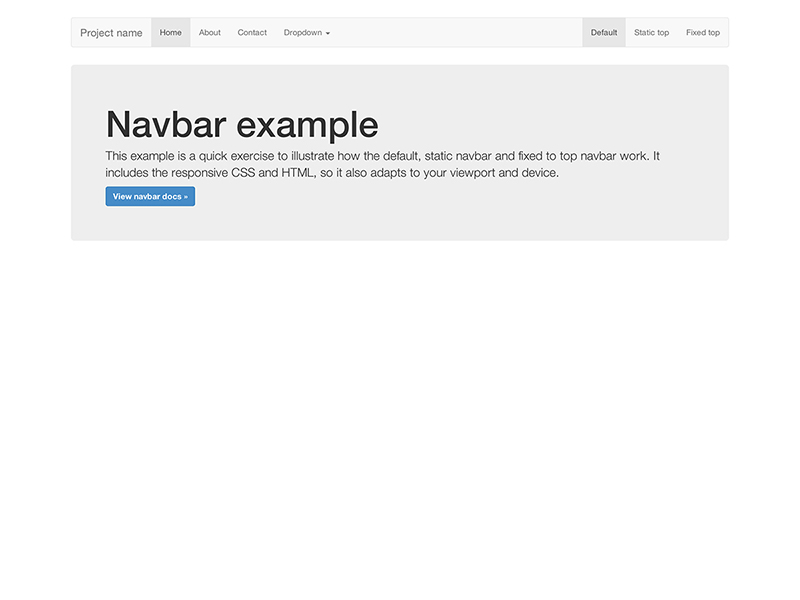
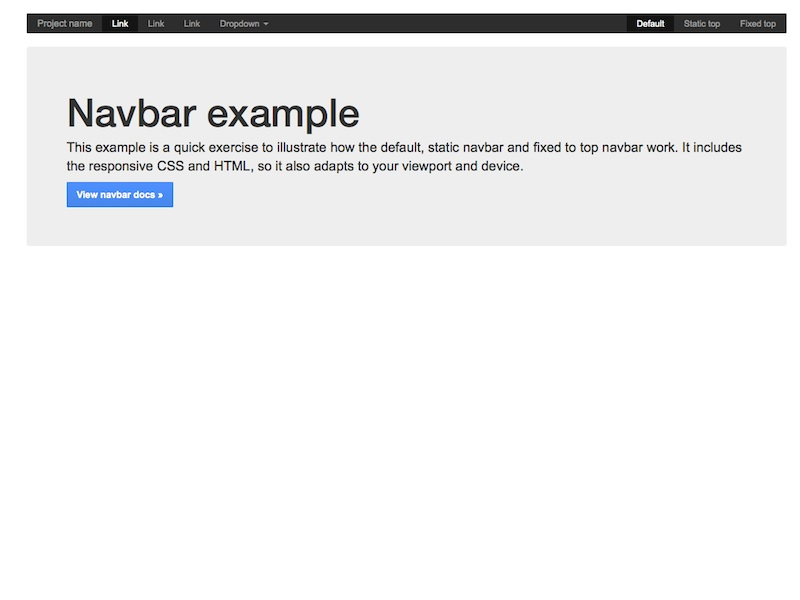
update the navbar example to support todc-bootstrap
#117

Changed region(s): [[0.0625, 0.15, 0.9375, 0.36], [0.0312, 0.0, 1.0, 0.06]]

diff --git a/examples/navbar/index.html b/examples/navbar/index.html
@@ -8,10 +8,13 @@
     <meta name="author" content="">
     <link rel="shortcut icon" href="../../docs-assets/ico/favicon.png">
 
-    <title>Navbar Template for Bootstrap</title>
+    <title>Navbar Template for TODC Bootstrap</title>
 
     <!-- Bootstrap core CSS -->
     <link href="../../dist/css/bootstrap.css" rel="stylesheet">
+
+    <!-- TODC Bootstrap core CSS -->
+    <link href="../../dist/css/todc-bootstrap.css" rel="stylesheet">
 
     <!-- Custom styles for this template -->
     <link href="navbar.css" rel="stylesheet">
